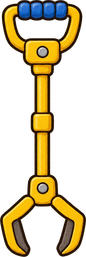
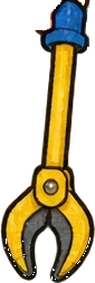
Boneco usa o braço mecânico da ilustração com a garra
- garra_da_ilustracao.py recorta a garra da 1ª figura (sem a mão e o tênis)
- no rig: topo do cabo azul na ponta dos dedos, 30,5% da altura até a ponta, como na ilustração

Claude-Session: https://claude.ai/code/session_01PVcgpF37vhDNSTNALVDodv

diff --git a/Design/tools/monta_rig_v4.py b/Design/tools/monta_rig_v4.py
@@ -10,7 +10,7 @@ import sys, os, json
 import numpy as np, cv2
 from PIL import Image
 src, src2, src3, out = sys.argv[1:5]
-grabber_src = sys.argv[5] if len(sys.argv) > 5 else None   # braço mecânico (garra aberta, com a pegada azul)
+grabber_src = sys.argv[5] if len(sys.argv) > 5 else None   # braço mecânico (braco-mecanico-ilustracao.png)
 os.makedirs(out, exist_ok=True)
 A = np.array(Image.open(src).convert('RGBA'))
 n, lab, st, _ = cv2.connectedComponentsWithStats((A[..., 3] > 40).astype(np.uint8), 8)
@@ -231,21 +231,22 @@ part('frontLegUpper', 'legUpF', 'body', HIP, 7)
 part('head', 'head', 'body', NECK, 8)
 part('frontArmLower', 'armLoF', 'frontArmUpper', elbow['F'], 10)
 part('frontArmUpper', 'armUpF', 'body', SHOULDER, 11)
-GARRA_LEN = 0.27               # da pegada (cabo azul) até a ponta da garra, em fração da altura do Antônio
+GARRA_LEN = 0.305              # da pegada (topo do cabo azul) até a ponta da garra, em fração da altura (como na ilustração)
 if grabber_src:
     # braço mecânico pendurado na palma da mão da frente (a 72% do antebraço), por trás da mão:
-    # a mão cobre a pegada azul do cabo
+    # a mão fica logo acima do cabo azul, como na ilustração com a garra
     b = images['armLoF']['box']; al = np.array(Image.open(f'{out}/armLoF.png'))[..., 3] > 100
     gy = int(al.shape[0] * 0.72); xs = np.where(al[gy])[0]
     grip = (b[0] + float(xs.mean()), b[1] + gy)
+    knob = b[1] + al.shape[0] * 0.86     # topo do cabo azul fica na ponta dos dedos (o azul aparece embaixo da mão)
     g = Image.open(grabber_src).convert('RGBA'); G = np.array(g)
     hsvg = cv2.cvtColor(np.ascontiguousarray(G[..., :3]), cv2.COLOR_RGB2HSV).astype(int)
     blue = (hsvg[..., 0] >= 95) & (hsvg[..., 0] <= 130) & (hsvg[..., 1] > 100) & (G[..., 3] > 100)
-    bys, bxs = np.where(blue); gx0, gy0 = float(bxs.mean()), float(bys.mean())
+    bys, bxs = np.where(blue); gx0, gy0 = float(bxs.mean()), float(bys.min()) + 4
     height = FLOOR - min(images[k]['box'][1] for k in images)
-    gs = GARRA_LEN * height / (G.shape[0] - gy0)
+    gs = GARRA_LEN * height / (G.shape[0] - gy0)   # (giro em volta da palma: grip)
     g = g.resize((round(g.width * gs), round(g.height * gs)), Image.LANCZOS)
-    add_image('grabber', g, (round(grip[0] - gx0 * gs), round(grip[1] - gy0 * gs)))
+    add_image('grabber', g, (round(grip[0] - gx0 * gs), round(knob - gy0 * gs)))
     part('grabber', 'grabber', 'frontArmLower', grip, 9)
 # sola (calcanhar e ponta do pé) de cada canela+pé, no espaço do rig: o jogo usa para manter o pé no chão
 for pt in parts:

diff --git a/Design/tools/garra_da_ilustracao.py b/Design/tools/garra_da_ilustracao.py
@@ -1,0 +1,26 @@
+"""Recorta o braço mecânico da 1ª figura da ilustração com a garra (antonio-poses-com-garra.png), que fica pendurado
+fora do corpo. A mão (pele em cima do cabo azul) e o tênis ficam de fora.
+Uso: python3 -I garra_da_ilustracao.py <antonio-poses-com-garra.png> <saida.png>"""
+import sys
+import numpy as np, cv2
+from PIL import Image
+a = np.array(Image.open(sys.argv[1]).convert('RGBA'))
+x0, y0, x1, y1 = 22, 595, 125, 870          # caixa da garra na 1ª figura
+c = a[y0:y1, x0:x1].copy()
+hsv = cv2.cvtColor(np.ascontiguousarray(c[..., :3]), cv2.COLOR_RGB2HSV).astype(int)
+yel = (hsv[..., 0] >= 15) & (hsv[..., 0] <= 35) & (hsv[..., 1] > 100) & (c[..., 3] > 40)
+blue = (hsv[..., 0] >= 95) & (hsv[..., 0] <= 130) & (hsv[..., 1] > 120) & (hsv[..., 2] > 150) & (c[..., 3] > 40)
+blue_top = np.where(blue.any(1))[0].min()
+yy = np.mgrid[0:c.shape[0], 0:c.shape[1]][0]
+skin = (hsv[..., 0] <= 20) & (hsv[..., 1] > 40) & (hsv[..., 2] > 130) & (yy < blue_top + 6)   # só a mão, em cima
+red = ((hsv[..., 0] <= 8) | (hsv[..., 0] >= 170)) & (hsv[..., 1] > 120) & (yy > c.shape[0] * 0.8)  # tênis, embaixo
+m = (c[..., 3] > 40) & ~skin & ~red
+part = yel | blue
+for y in range(c.shape[0]):                    # por linha: entre as pontas da garra, mais o contorno
+    xs = np.where(part[max(0, y - 3):y + 4].any(0))[0]
+    if len(xs) == 0: m[y] = False; continue
+    m[y, :max(0, xs.min() - 5)] = False; m[y, xs.max() + 6:] = False
+m[:max(0, blue_top - 2)] = False
+n, lab, st, _ = cv2.connectedComponentsWithStats(m.astype(np.uint8), 8); m = lab == 1 + np.argmax(st[1:, 4])
+c[~m, 3] = 0
+im = Image.fromarray(c); im = im.crop(im.getbbox()); im.save(sys.argv[2]); print(im.size)

diff --git a/README.md b/README.md
@@ -159,7 +159,8 @@ por dentro do punho (`<nome>-garra.png`). Sentado na cadeira ele usa o boneco (`
   desenham a prévia (`Design/personagens/v4/antonio-caminhada-rig-previa.gif`).
 - A cada quadro, `GroundFeet` sobe ou desce o boneco para o pé mais baixo encostar no chão: o sobe-e-desce do corpo sai
   das próprias pernas.
-- O braço mecânico (`Design/personagens/v4/braco-mecanico-aberto.png`) fica pendurado na mão da frente: a mão cobre a
+- O braço mecânico do boneco é o da ilustração com a garra (`braco-mecanico-ilustracao.png`, recortado por
+  `Design/tools/garra_da_ilustracao.py`) e fica pendurado na mão da frente: a mão fica logo acima da
   pegada azul e o jogo desfaz a maior parte do giro do braço para ele ficar quase na vertical. Nas poses paradas ele é
   desenhado na mão pelo jogo (`held` + `hold` no `frames.json`).
 
